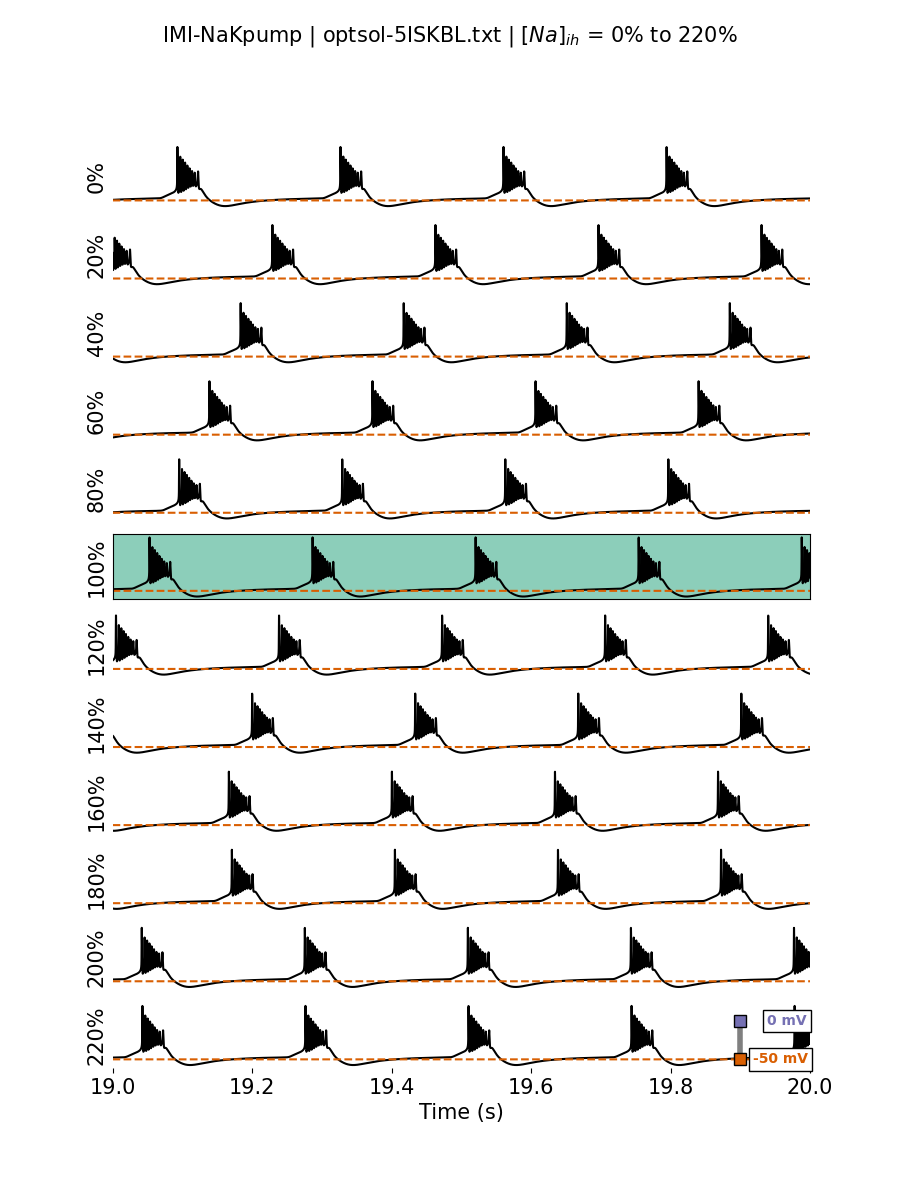
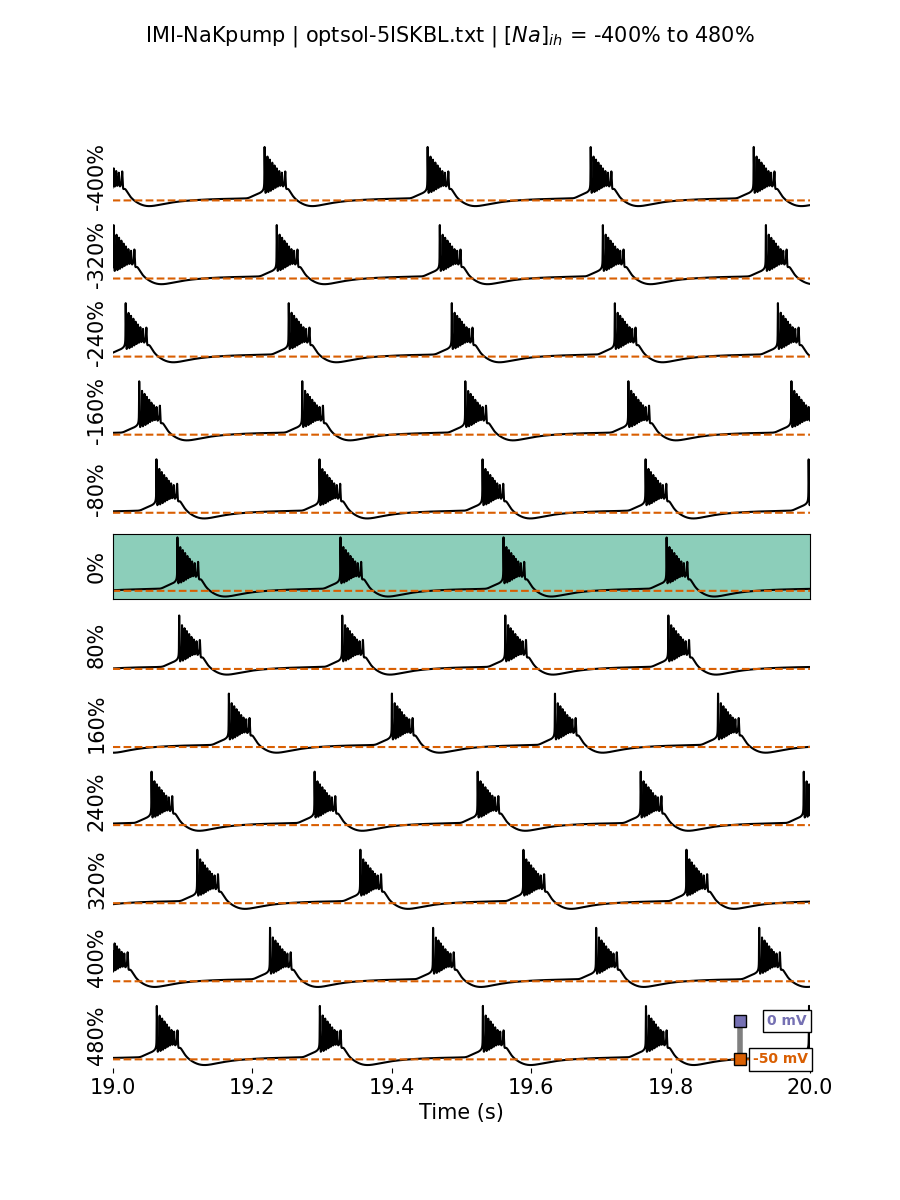
Increase range for Na_is and Na_ih

diff --git a/plotpumps.py b/plotpumps.py
@@ -1,3 +1,4 @@
+#%%
 import matplotlib.pyplot as plt
 import matplotlib.gridspec as gridspec
 import numpy as np
@@ -26,6 +27,7 @@ sol = np.genfromtxt('sol.txt')
 time = np.linspace(0,20,len(sol))
 ipump = getipump(p,sol)
 
+#%%
 # Plot the control parameter set
 fig, axs = plt.subplots(3, sharex=True, figsize=(6,8))
 axs[0].plot(time[time>19],sol[:,0][time>19],color='#1b9e77')
@@ -41,6 +43,11 @@ axs[2].set_ylabel('$I_{pump}$ (nA)', fontsize=12)
 axs[2].tick_params(labelsize=12)
 fig.suptitle(f'IMI-NaKpump | {pfname} | $I_{{max}}$ = {p[40]} nA', fontsize=12)
 fig.savefig('control-'+hashname+'.png')
+
+# Restore control parameter set
+p = originalp.copy()
+np.savetxt(pfname, p)
+#%%
 
 # Plot I_max varied from 0% to 220% of control
 fig, axs = plt.subplots(12, sharex=True, figsize=(9,12))
@@ -90,12 +97,17 @@ for i in range(12):
 fig.suptitle(f'IMI-NaKpump | {pfname} | $I_{{max}}$ = 0% to 220%', fontsize=15)
 fig.savefig('varied-I_max-'+hashname+'.png')
 
-# Plot Na_is varied from 0% to 220% of control
+# Restore control parameter set
+p = originalp.copy()
+np.savetxt(pfname, p)
+#%%
+
+# Plot Na_is varied from -400% to 480% of control
 fig, axs = plt.subplots(12, sharex=True, figsize=(9,12))
 for i in range(12):
 	# Vary Na_is by specified factor
 	p = originalp.copy()
-	factor = round(i * 0.2, 1)
+	factor = round((i - 5) * 0.8, 1)
 	percentage = int(factor * 100)
 	p[41] = p[41] * factor
 	print(f'{p[41] = }')
@@ -135,15 +147,20 @@ for i in range(12):
 	axs[i].set_ylabel(f'{percentage}%', fontsize=15, color='black')
 	axs[i].set_xlim(19,20)
 
-fig.suptitle(f'IMI-NaKpump | {pfname} | $[Na]_{{is}}$ = 0% to 220%', fontsize=15)
+fig.suptitle(f'IMI-NaKpump | {pfname} | $[Na]_{{is}}$ = -400% to 480%', fontsize=15)
 fig.savefig('varied-Na_is-'+hashname+'.png')
 
-# Plot Na_ih varied from 0% to 220% of control
+# Restore control parameter set
+p = originalp.copy()
+np.savetxt(pfname, p)
+#%%
+
+# Plot Na_ih varied from -400% to 480% of control
 fig, axs = plt.subplots(12, sharex=True, figsize=(9,12))
 for i in range(12):
 	# Vary Na_ih by specified factor
 	p = originalp.copy()
-	factor = round(i * 0.2, 1)
+	factor = round((i - 5) * 0.8, 1)
 	percentage = int(factor * 100)
 	p[42] = p[42] * factor
 	print(f'{p[42] = }')
@@ -183,9 +200,10 @@ for i in range(12):
 	axs[i].set_ylabel(f'{percentage}%', fontsize=15, color='black')
 	axs[i].set_xlim(19,20)
 
-fig.suptitle(f'IMI-NaKpump | {pfname} | $[Na]_{{ih}}$ = 0% to 220%', fontsize=15)
+fig.suptitle(f'IMI-NaKpump | {pfname} | $[Na]_{{ih}}$ = -400% to 480%', fontsize=15)
 fig.savefig('varied-Na_ih-'+hashname+'.png')
 
 # Restore control parameter set
 p = originalp.copy()
 np.savetxt(pfname, p)
+# %%
